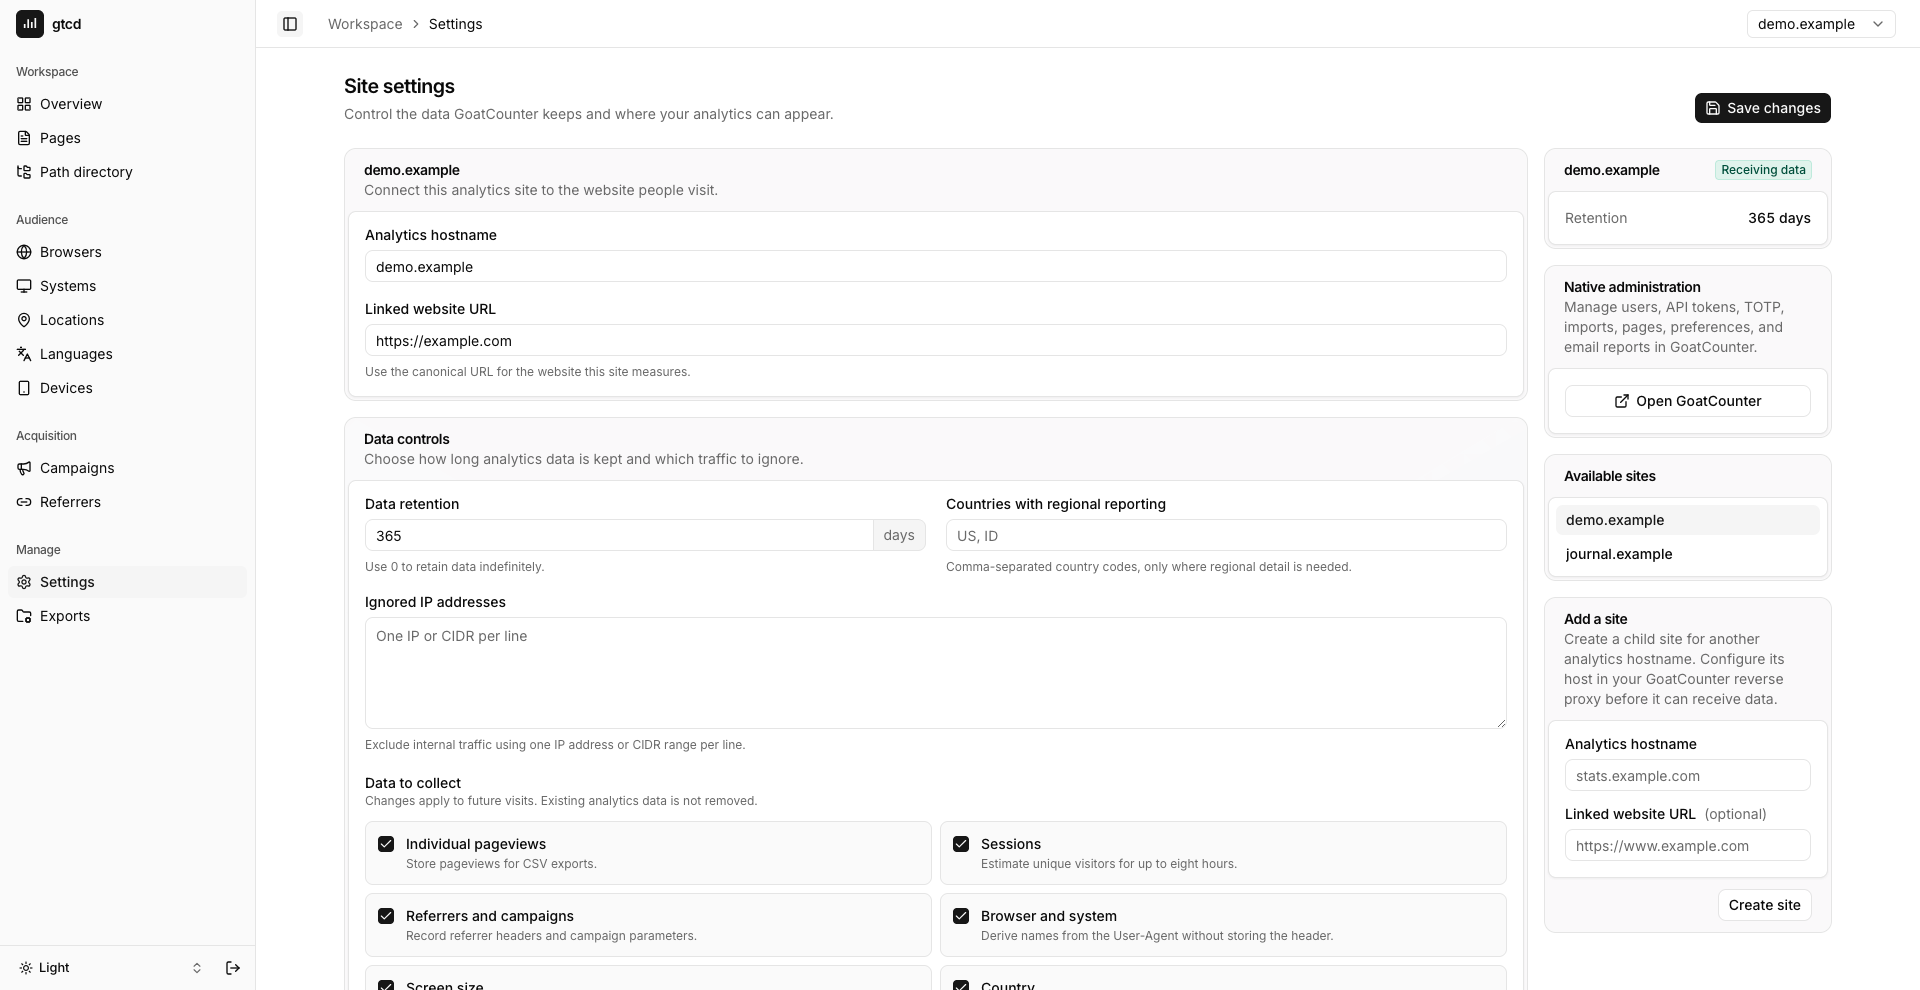
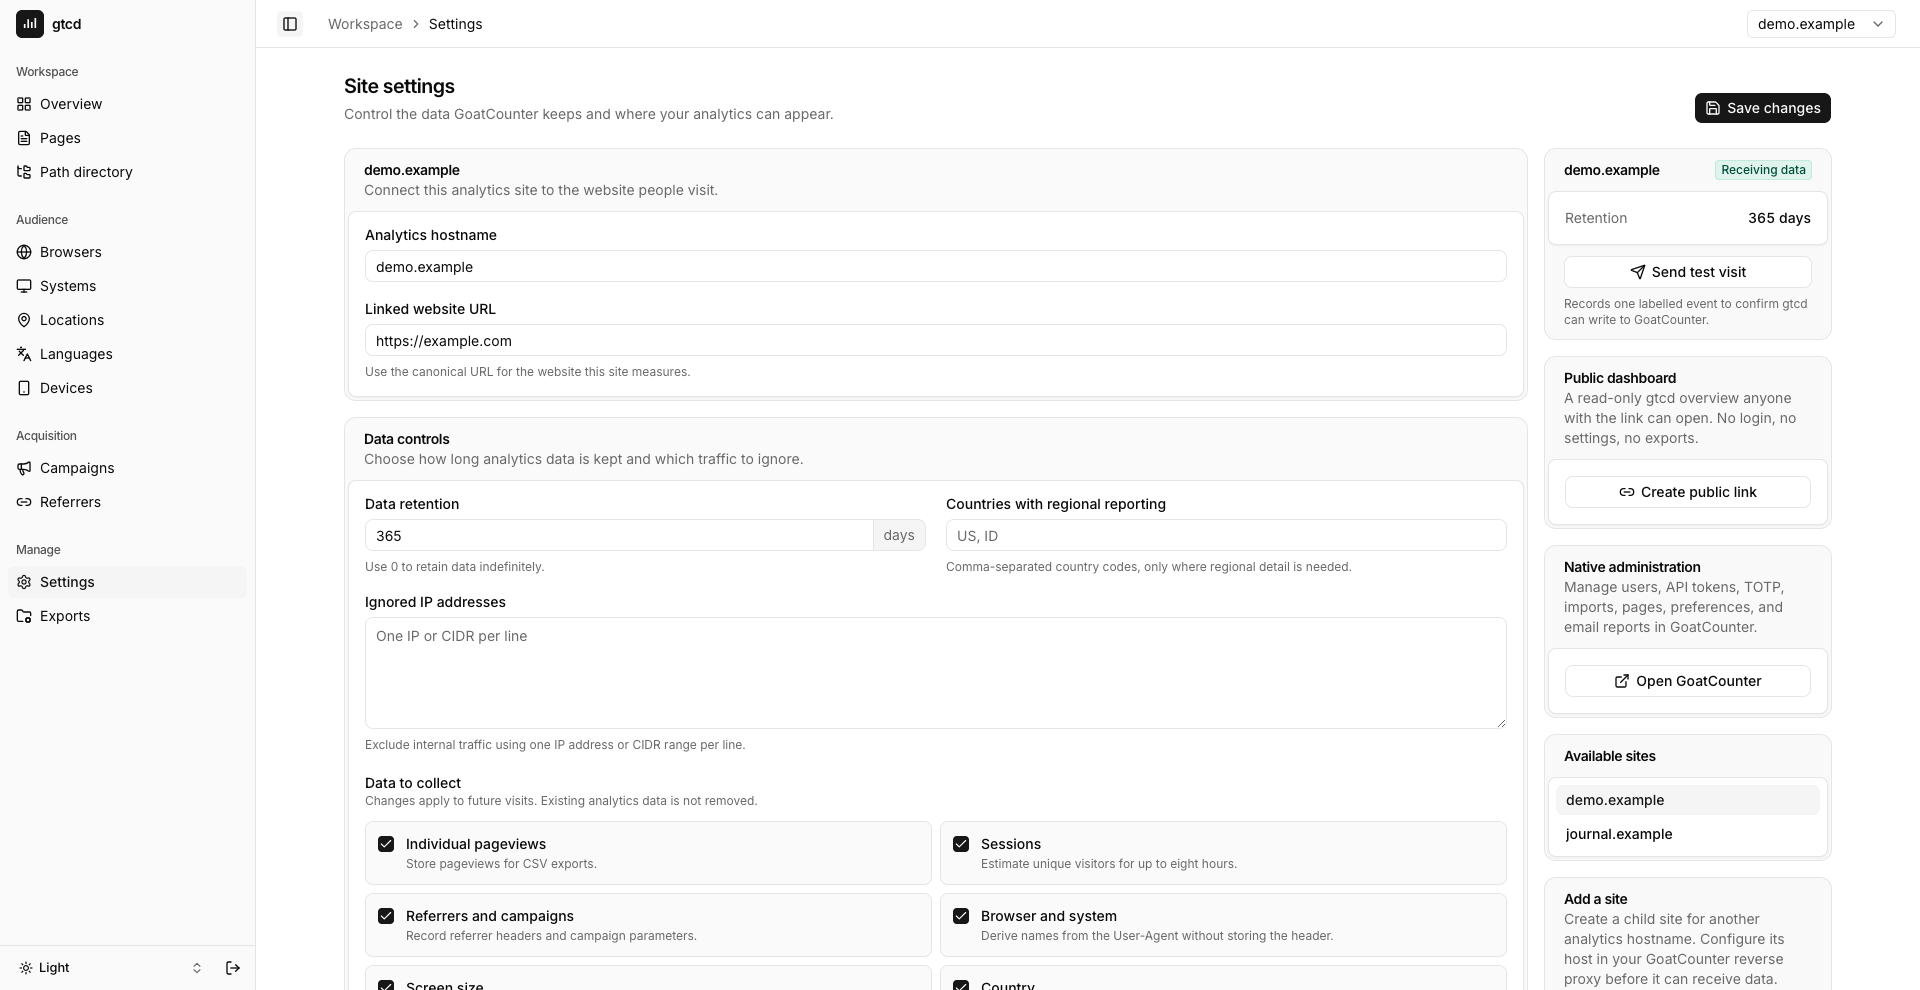
docs: document phase 3 features and refresh screenshots
README covers email reports, the public dashboard, Bahasa Indonesia, fewer numbers, widget options and the SMTP settings, with new screenshots of the public page and the Indonesian overview. The parity plan records phase 3 and the Redis fixes found during QA.

Changed region(s): [[0.8125, 0.2424, 0.9375, 0.8788], [0.8125, 0.9091, 0.9375, 1.0]]

diff --git a/README.md b/README.md
@@ -84,7 +84,12 @@ flowchart TD
   origins, and public-counter settings without exposing the API token.
 - **Data Exports**: Administrators can create and download gzip-compressed CSV
   exports through the GoatCounter API.
-- **Saved Views & Overview Layout**: Save a period, filter, grouping, and chart scale under a name, pick a default view, and choose which overview widgets show and in what order. Stored per user in Redis (in-memory fallback); hidden widgets skip their GoatCounter requests.
+- **Saved Views & Overview Layout**: Save a period, filter, grouping, and chart scale under a name, pick a default view, and choose which overview widgets show, in what order, with how many rows and which chart style (GoatCounter's own widgets and default view are imported on first use). Stored per user in Redis (in-memory fallback); hidden widgets skip their GoatCounter requests.
+- **Email Reports**: Daily, weekly, two-weekly, or monthly summaries (visits with change, top pages, referrers, countries) over your SMTP server, sent after 07:00 in your GoatCounter timezone, with a test-email button. A Redis lock keeps replicas from sending twice.
+- **Public Dashboard**: A read-only gtcd overview behind a revocable share link, for people without a login.
+- **English and Bahasa Indonesia**: The interface and email reports follow your GoatCounter language, with a per-user override.
+- **Fewer Numbers Mode**: Hide visit counts and keep chart shapes and shares, following GoatCounter's setting (including its lock) with a per-user override.
+- **Connection Check**: Send a labelled test visit through the API to confirm gtcd can write to GoatCounter.
 - **Sharing & Visitor Counter**: Set dashboard visibility (private, secret link, public), generate the access token and share link, and copy ready-made visitor-counter embeds (`/counter/<path>.svg|png|html|json`).
 - **Readable Charts**: Toggle the traffic chart to a data table, and switch page sparklines between per-page and shared scale. Event counts appear next to pageview totals.
 - **Data Normalization**: Empty or null metric names are automatically normalized to `"Unknown"` for clean chart display.
@@ -150,6 +155,15 @@ are illustrative.
   <tr>
     <td><img src="static/screenshots/settings.png" alt="Site settings with retention, data collection, visibility, and visitor counter options"></td>
     <td><img src="static/screenshots/exports.png" alt="Data exports page with CSV and JSON format choice and export status"></td>
+  </tr>
+</table>
+
+### Public dashboard and Bahasa Indonesia
+
+<table>
+  <tr>
+    <td><img src="static/screenshots/share.png" alt="Read-only public dashboard opened from a share link, with period buttons and key metrics"></td>
+    <td><img src="static/screenshots/traffic-id.png" alt="Traffic overview in Bahasa Indonesia"></td>
   </tr>
 </table>
 
@@ -352,6 +366,13 @@ Configure these in your `.env` file or container environment:
 | `COOKIE_SECURE`         |    No    | auto                      | Force the session cookie's `Secure` flag (`true`/`false`). By default it is set automatically from the request protocol, including `X-Forwarded-Proto` behind reverse proxies.                                 |
 | `GTCD_ADMIN_EMAILS`     |    No    | —                         | Comma-separated emails permitted to manage sites and exports in gtcd.                                                                                                                                          |
 | `GOATCOUNTER_ADMIN_URL` |    No    | —                         | Public HTTPS GoatCounter administration URL for users, API tokens, TOTP, imports, page management, dashboard preferences, and email reports. HTTP is allowed only on localhost.                                |
+| `SMTP_HOST`             |    No    | —                         | SMTP server for email reports. Reports stay off until `SMTP_HOST` and `SMTP_FROM` are set.                                                                                                                     |
+| `SMTP_PORT`             |    No    | `587` (`465` if secure)   | SMTP port.                                                                                                                                                                                                     |
+| `SMTP_SECURE`           |    No    | `false`                   | `true` for implicit TLS (port 465); otherwise STARTTLS is used when offered.                                                                                                                                   |
+| `SMTP_USER`             |    No    | —                         | SMTP username, if your server needs authentication.                                                                                                                                                            |
+| `SMTP_PASSWORD`         |    No    | —                         | SMTP password.                                                                                                                                                                                                 |
+| `SMTP_FROM`             |    No    | —                         | Sender address, e.g. `gtcd reports <reports@example.com>`.                                                                                                                                                     |
+| `GTCD_PUBLIC_URL`       |    No    | —                         | Public HTTPS URL of the dashboard, used for links in email reports.                                                                                                                                            |
 
 The login session cookie is `HttpOnly`, `SameSite=Lax`, and its `Secure` flag
 follows the protocol the client actually used, so both `http://localhost`

diff --git a/docs/plans/active/goatcounter-dashboard-parity.md b/docs/plans/active/goatcounter-dashboard-parity.md
@@ -99,3 +99,42 @@ src/lib/preferences.check.ts`.
 Evidence: `pnpm check`, `pnpm lint` (src), `pnpm build`, the preferences check,
 and browser QA against a synthetic upstream with a Jakarta-timezone user while
 the server ran with `TZ=UTC` (upstream received `+07:00` boundaries).
+
+## Phase 3: remaining buildable gaps (started 2026-10-11)
+
+Scope, in build order:
+
+1. Widget parity and options: add GoatCounter's `toprefs` and `campaigns`
+   overview widgets; per-widget `limit` (list widgets, 1–20; pages 1–100) and
+   `style` (traffic: line/bar; pages: line/bar/text).
+2. First-use import of the API token owner's GoatCounter widgets and
+   `default` view (period/filter/group) into the gtcd layout. GoatCounter's
+   copy is read-only through the API, so later edits stay in gtcd.
+3. "Fewer numbers" mode from `/me` (`fewer_numbers`, honoring
+   `fewer_numbers_lock_until`), with a per-user gtcd override.
+4. "Send test visit" via `POST /api/v0/count`, recorded as a labelled event.
+5. Public read-only gtcd dashboard behind revocable per-site share tokens.
+6. Email reports over SMTP (`SMTP_*` env), per-user frequency and site,
+   scheduled in-process with a Redis lock so replicas send once.
+7. Indonesian translation: locale from the GoatCounter `language` setting,
+   overridable per user; English fallback.
+
+Out of scope (no API): users/access, API tokens, TOTP, imports, path
+merge/purge, site removal/code change, account merge/delete, server admin.
+
+Phase 3 status (2026-10-11): all seven items complete.
+
+- Widget parity/options and first-use GoatCounter import: done
+  (`src/lib/dashboard-layout.ts`, check: `src/lib/dashboard-layout.check.ts`).
+- Fewer numbers with lock and override: done (`src/lib/preferences.ts`).
+- Test visit: done (`sendTestVisit` in `src/lib/server/goatcounter/admin.ts`).
+- Public dashboard: done (`src/routes/share/[token]`, `src/lib/server/share-store.ts`).
+- Email reports: done (`src/lib/server/email-reports.ts`, `src/lib/report-period.ts`,
+  check: `src/lib/report-period.check.ts`); verified against Mailpit, including a
+  scheduled send from the production build.
+- Indonesian translation: done (`src/lib/i18n`, 651 keys per locale; a missing
+  Indonesian key fails `pnpm check`).
+- Fixes found during QA: Redis `pingRedis` now connects before its first ping
+  (lazyConnect without an offline queue made the first command of every
+  process fall back to memory, dropping early logins and the first report
+  tick); session lookups also fall back to the in-memory store on a Redis miss.
